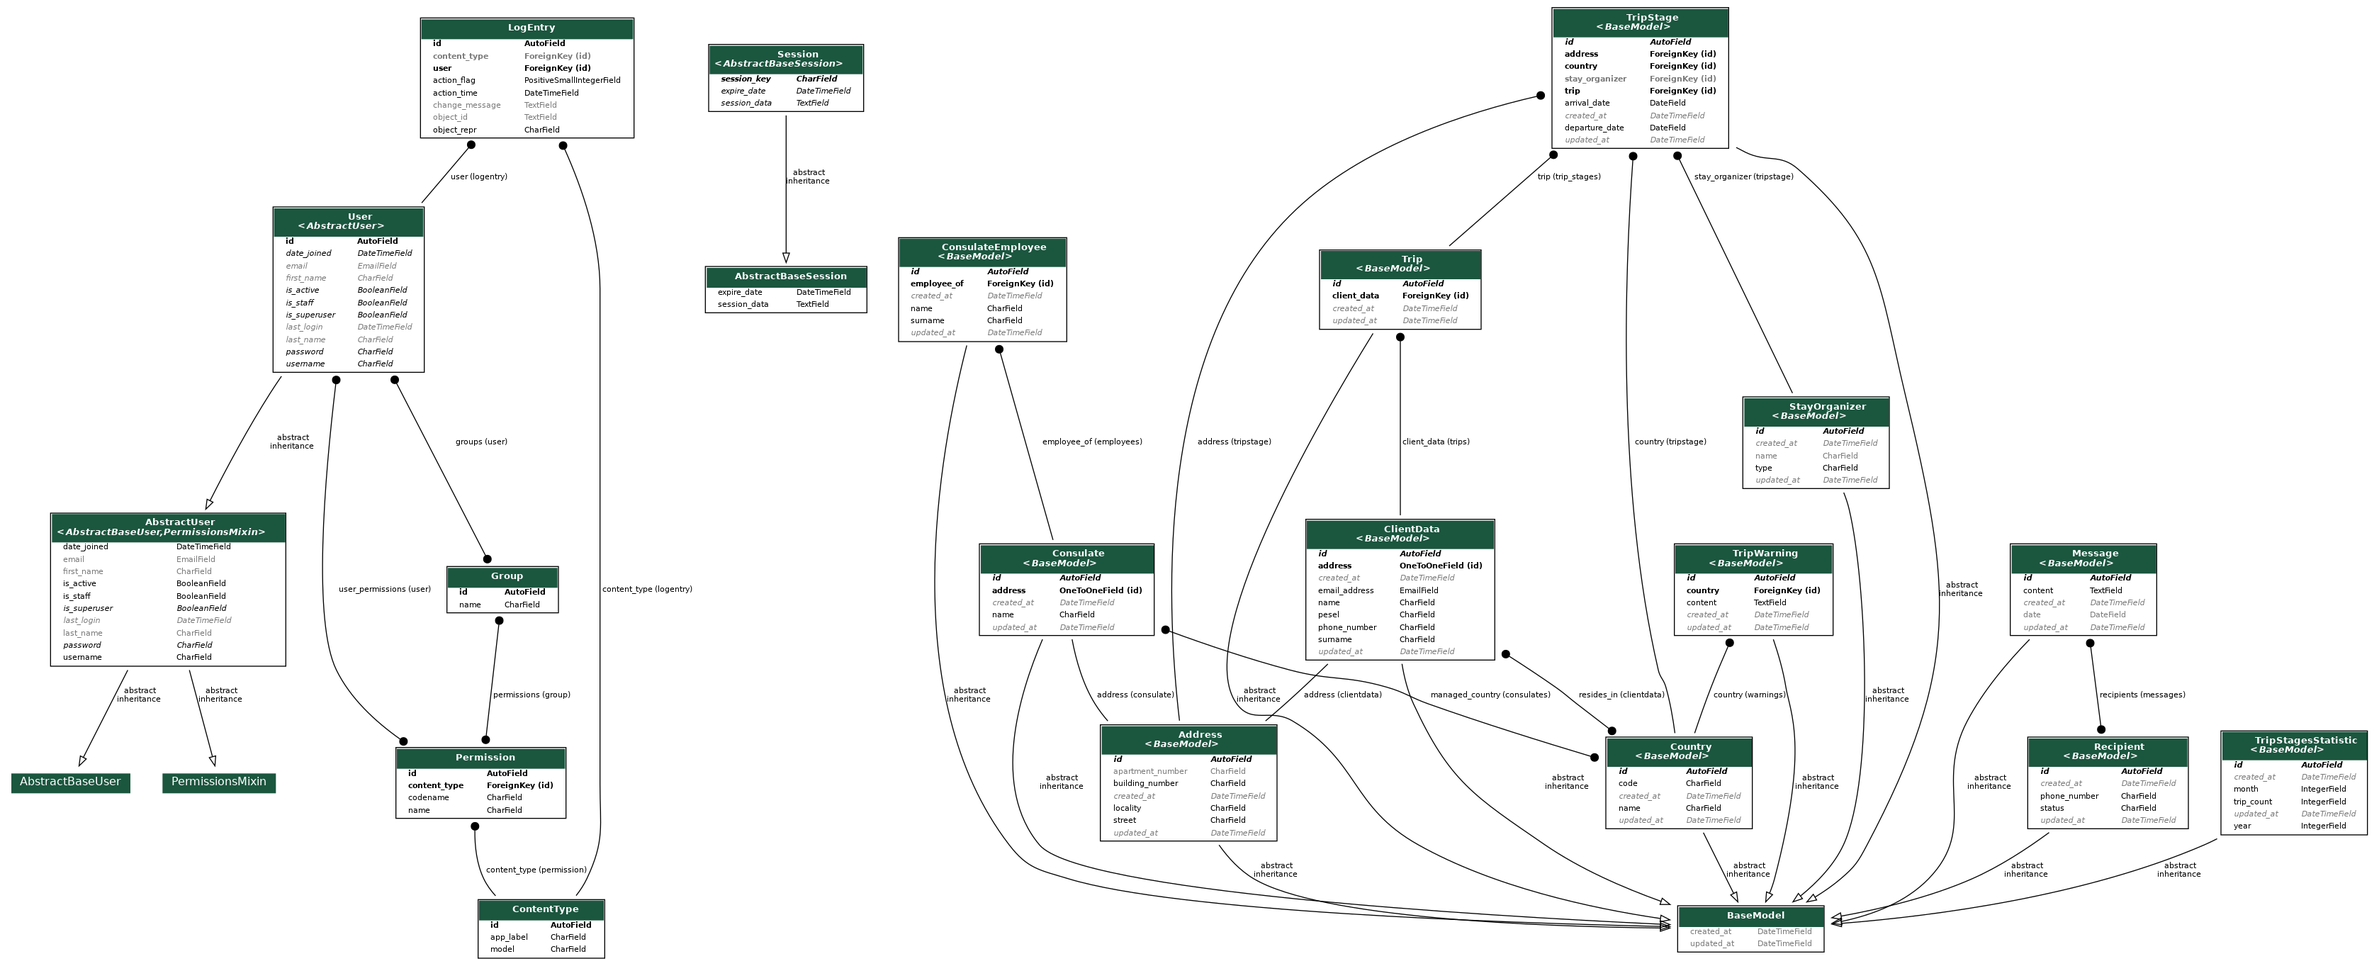
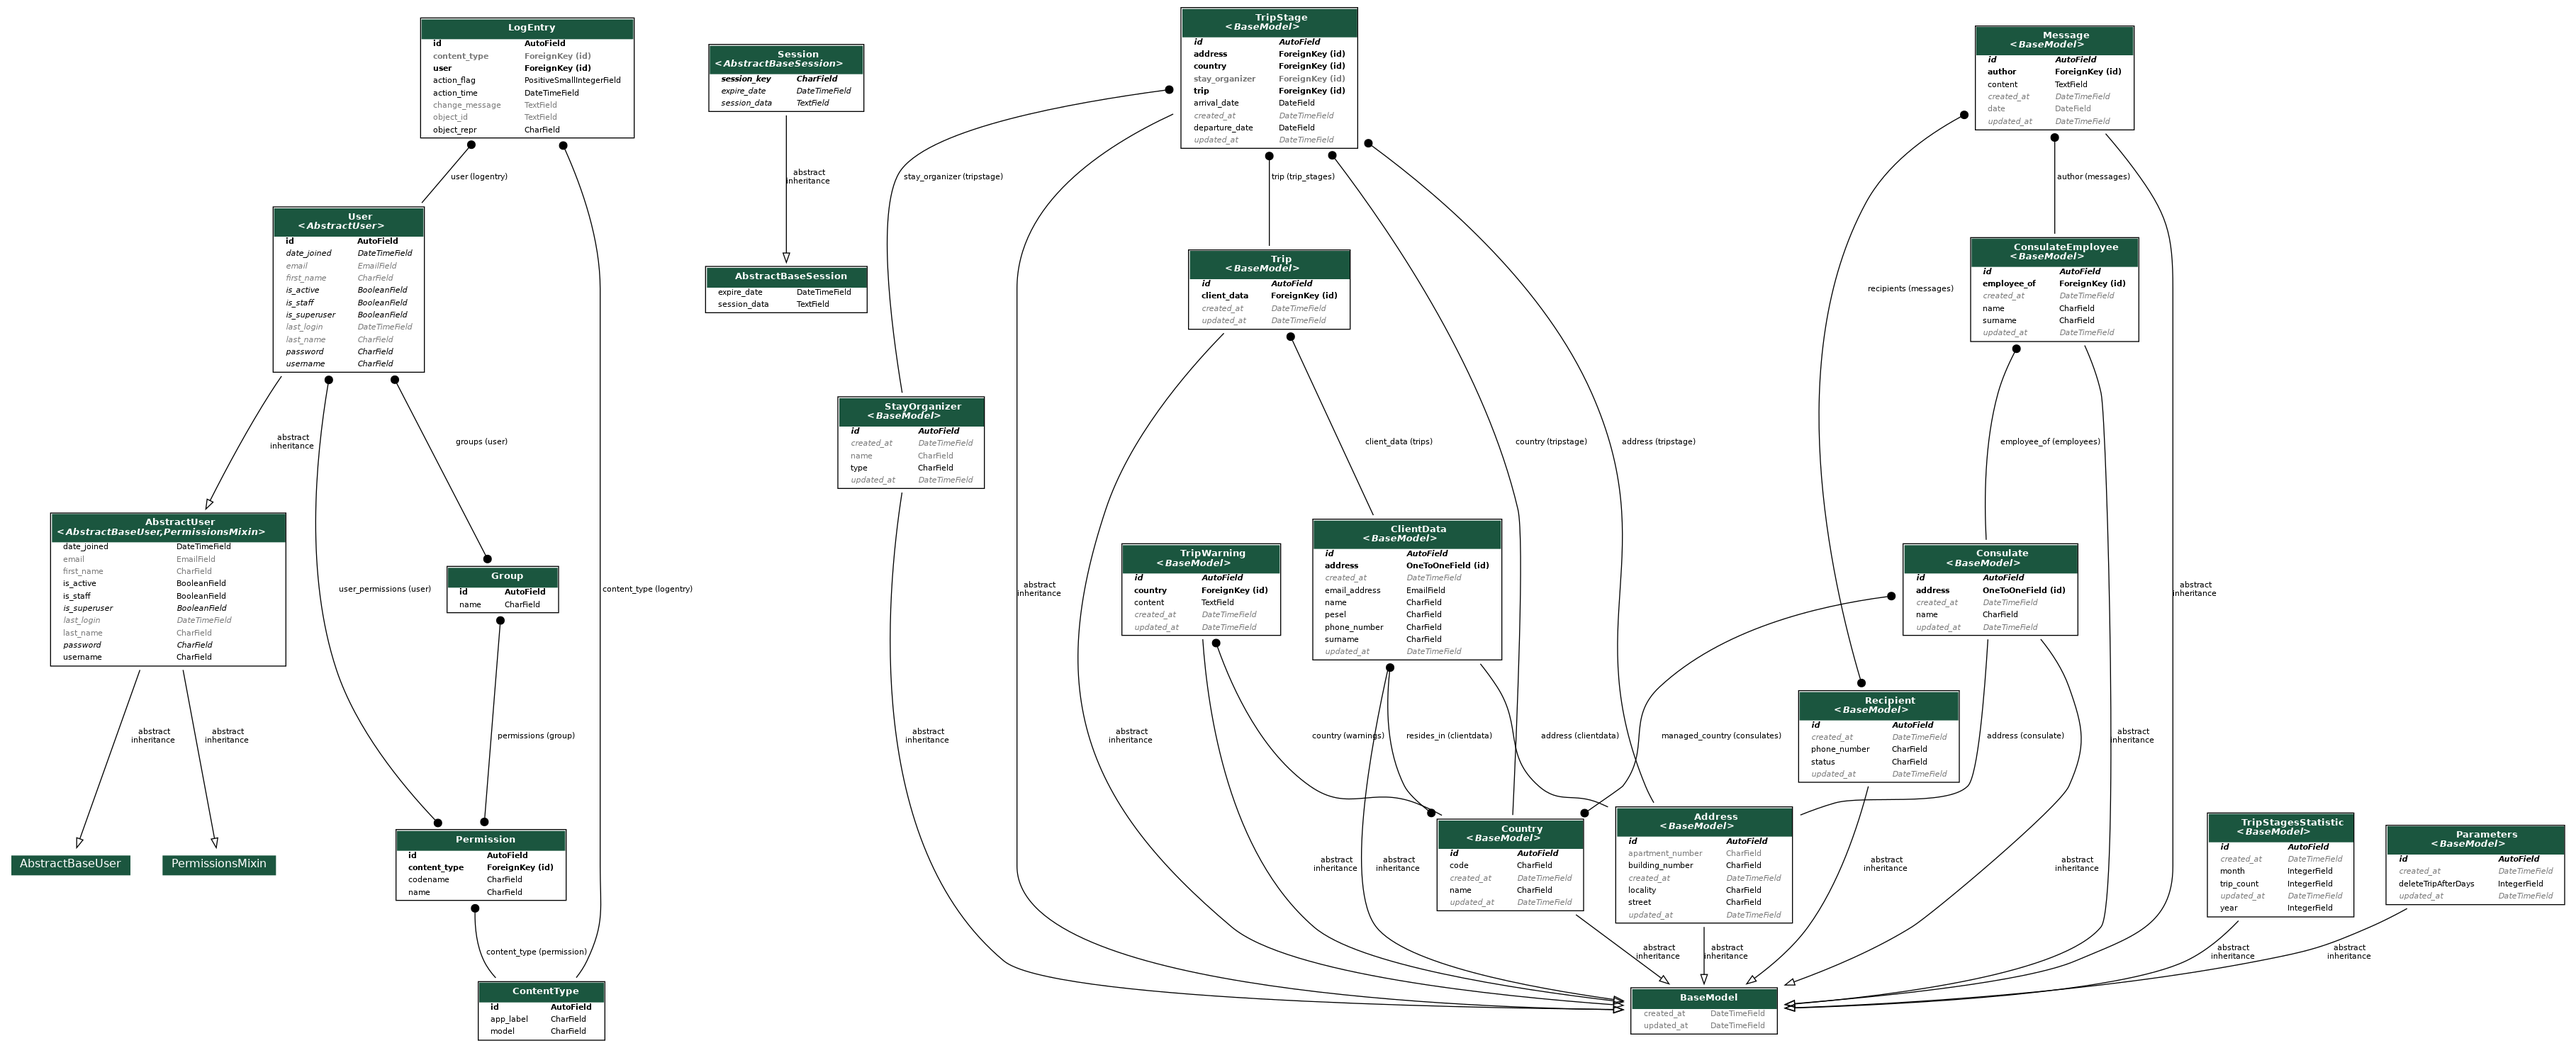
feat: add Parameters model and migration, update settings for Swagger support

diff --git a/backend/odysseus/migrations/0004_parameters.py b/backend/odysseus/migrations/0004_parameters.py
@@ -1,0 +1,25 @@
+# Generated by Django 5.1.3 on 2024-12-11 08:30
+
+from django.db import migrations, models
+
+
+class Migration(migrations.Migration):
+
+    dependencies = [
+        ('odysseus', '0003_message_author'),
+    ]
+
+    operations = [
+        migrations.CreateModel(
+            name='Parameters',
+            fields=[
+                ('id', models.AutoField(primary_key=True, serialize=False)),
+                ('created_at', models.DateTimeField(auto_now_add=True)),
+                ('updated_at', models.DateTimeField(auto_now=True)),
+                ('deleteTripAfterDays', models.IntegerField()),
+            ],
+            options={
+                'abstract': False,
+            },
+        ),
+    ]

diff --git a/backend/odysseus/models.py b/backend/odysseus/models.py
@@ -95,3 +95,6 @@ class TripStagesStatistic(BaseModel):
     month = models.IntegerField()
     year = models.IntegerField()
     trip_count = models.IntegerField()
+
+class Parameters(BaseModel):
+    deleteTripAfterDays = models.IntegerField()

diff --git a/backend/backend/settings.py b/backend/backend/settings.py
@@ -41,6 +41,7 @@ INSTALLED_APPS = [
     'odysseus',
     'corsheaders',
     'django_extensions',
+    'rest_framework_swagger',
 ]
 
 MIDDLEWARE = [
